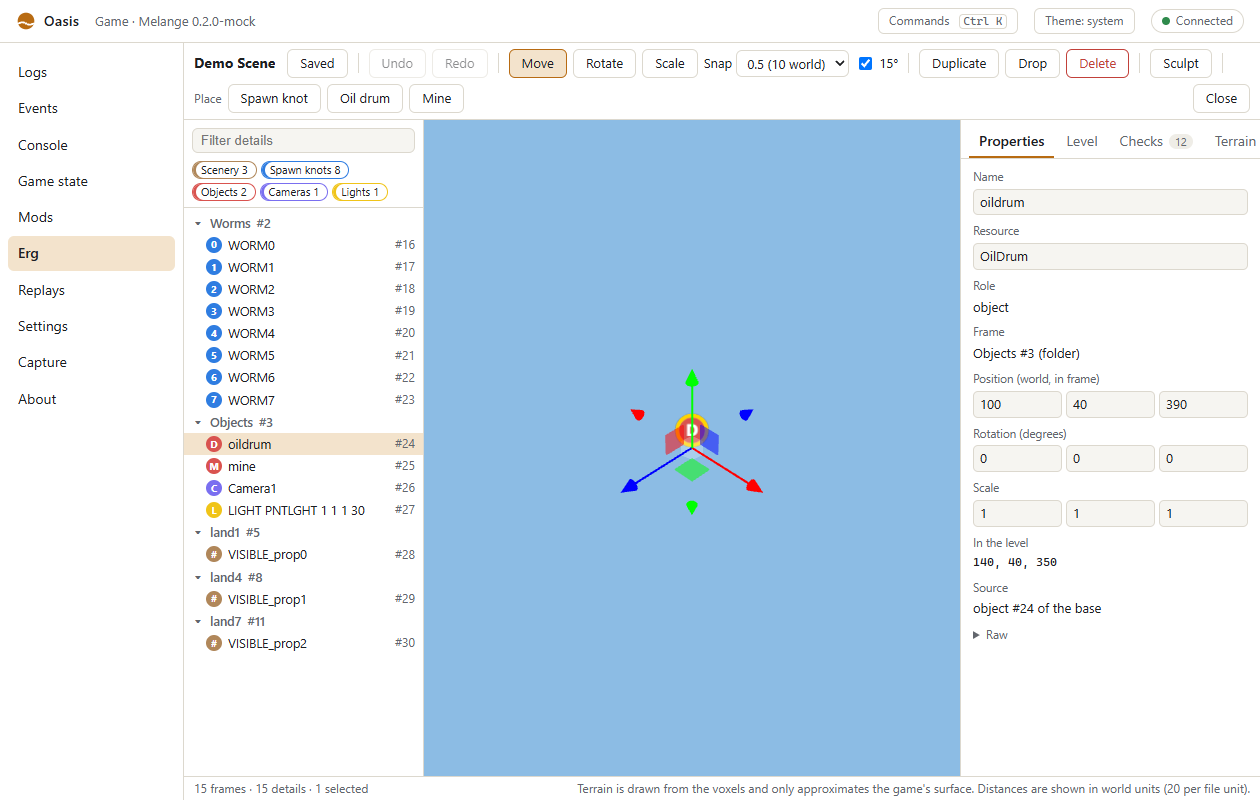
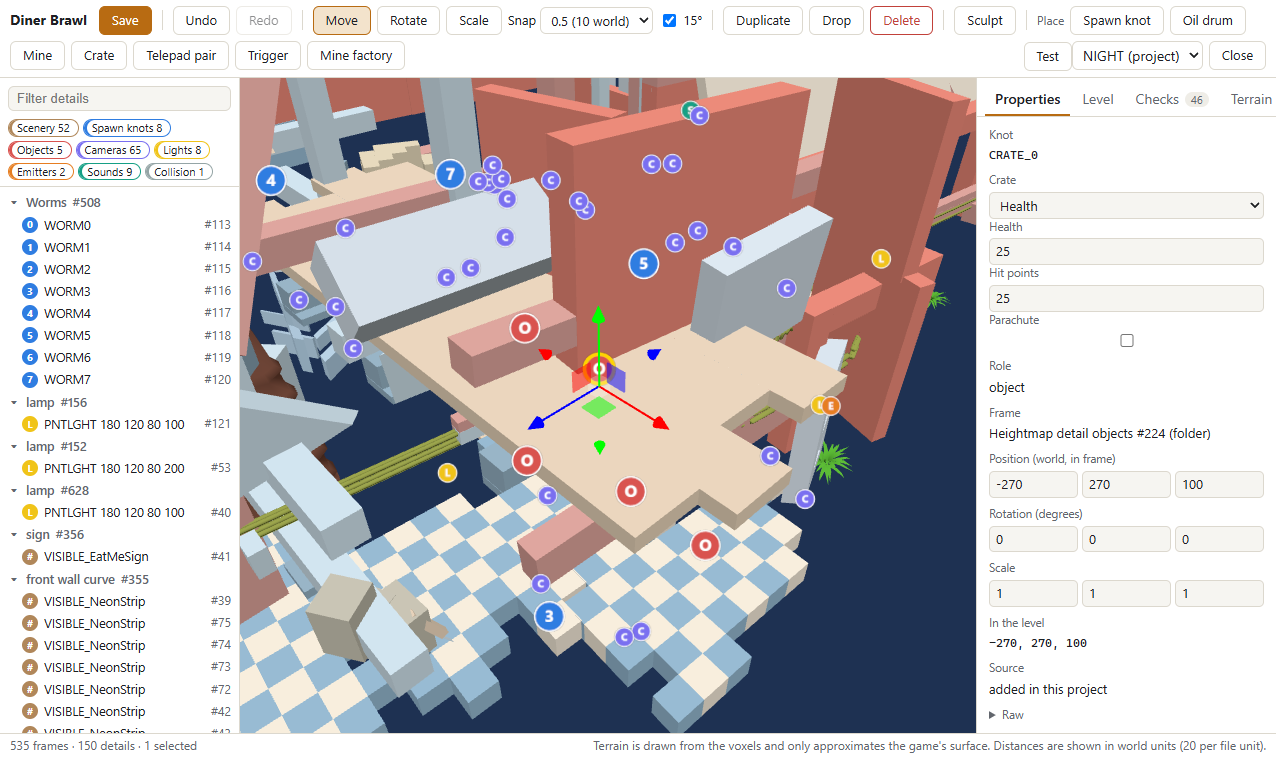
Document M6.1 in the Erg and developer guides and retake the editor shots
Claude-Session: https://claude.ai/code/session_014LhJkeYjyhWf3QW7af3a5V

diff --git a/docs/erg.md b/docs/erg.md
@@ -1,7 +1,8 @@
 # Erg: the map editor
 
 Erg is Oasis's level editor: it loads one of the game's own maps or a map you're already building, lets you move
-spawns and a handful of objects, set water and theme, and export the result as a mod. It never touches your game
+spawns, place objects, sculpt the terrain, paint the surround, add a level script, set water and theme, and export
+the result as a mod. It never touches your game
 files directly — everything happens through the local server (`melange.asi` with the game running, or `oasis.exe`
 with it closed), which is the only thing that reads `Data\` and writes `Mods\`.
 
@@ -28,17 +29,14 @@ a time. Map packs that ship only their patches (see Export) are listed at the to
 - **Outliner and properties:** a tree of everything in the map on one side, and the selected thing's fields (name,
   position, rotation, scale) on the other.
 
-![The Properties tab for a selected oil drum: name, resource, role, position, rotation and scale](images/erg/properties.png)
-
 - **Units:** the editor works in world units, which are 20× the numbers stored in the level file. A worm 1 map unit
   from a wall in the file is 20 world units away on screen — the same units the game's own camera and physics use.
-- **Placing:** pick *Spawn knot*, *Oil drum* or *Mine* in the toolbar, then click the terrain. *Drop* (G) puts the
+- **Placing:** pick *Spawn knot*, *Oil drum*, *Mine*, *Crate*, *Telepad pair*, *Trigger* or *Mine factory* in the
+  toolbar, then click the terrain. *Drop* (G) puts the
   selection on the ground below it; *Duplicate* (Ctrl+D) copies spawns and objects (not scenery).
 - **Undo and redo:** Ctrl+Z and Ctrl+Shift+Z, up to 500 steps.
 - The 3D view is an approximation of the game's own geometry, close enough to place things accurately but not a
   pixel-identical render of the game.
-
-![The Erg editor open on a synthetic map: the terrain, the outliner grouped by frame, and the toolbar's tool and Place buttons](images/erg/terrain.png)
 
 ## Spawns
 
@@ -49,14 +47,24 @@ A map's spawn mode is either:
 - **Knots:** place up to 8 numbered markers (`WORM0`..`WORM7`); worm *i* always starts on marker *i*. Every match
   needs all 8, even in smaller games — the map simply won't use the markers past the worm count.
 
-![The outliner filtered to the "spawn" role, with one WORM knot selected and its move gizmo shown](images/erg/spawns.png)
+![Diner Might with knot spawns: the outliner filtered to the eight WORM knots, WORM2 selected](images/erg/spawns.png)
 
 ## Objects
 
-Erg can place **mines** and **oil drums**, which work in any match on any map that uses them, and **crates**,
-**telepad pairs**, **triggers** and one **mine factory**, whose settings are on the Properties tab.
+- **Oil drums** and **mines** are always placed, whatever the match's scheme.
+- **Crates** hold a weapon, health or a utility; the Properties tab sets the contents, count or amount, hit points
+  and parachute.
+- **Telepad pairs** place two pads in one group: a worm on one pad comes out of the other.
+- **Triggers** have an index, a radius and the teams that collect or destroy them; a
+  [level script](#level-scripts) reacts to them.
+- One **mine factory** per map. It replaces the scheme's own factory, so a match never has two.
 
-![The toolbar's Place buttons with Oil drum armed, prompting a click on the terrain to place one](images/erg/objects.png)
+Crates, telepads, triggers and the mine factory sit on knots the game reads when the match starts. Using any of them
+saves the project as format v2 (see [Formats](#formats)).
+
+![A crate, a telepad pair, a trigger and a mine factory placed on Diner Might, with the outliner showing only objects](images/erg/objects.png)
+
+![The Properties tab for a placed crate: its kind, health, hit points and parachute](images/erg/properties.png)
 
 ## Water
 
@@ -66,16 +74,18 @@ Might, 150 floods nearly everything.
 ## Theme and time of day
 
 Changing the theme swaps the terrain's material and texture set (for example, Camelot's stone-and-banner look) and
-loads that theme's own height-map textures; it doesn't rewrite the terrain itself. Quick Game always plays your map
-in daytime regardless of the time-of-day setting you pick — that only affects how the map looks in other places the
-game shows it.
+loads that theme's own height-map textures; it doesn't rewrite the terrain itself. Quick Game and network games load
+every map in daytime, whatever the project's time of day says. To see the map at evening or night, pick that time
+for **Test** (see [Testing your map](#testing-your-map)).
 
 ## Terrain
 
 Press **Sculpt**, then drag over the terrain to carve, fill or paint with a box or sphere brush (the *Terrain* tab sets
 the mode, shape, size and material; `[` and `]` resize the brush, and Alt-drag still orbits). Fill with *Match
-column* takes the material of the terrain above. Erg doesn't add new terrain shapes or resize what's there — it only
-edits what the base map already has, and a brush reaches every piece of terrain it overlaps.
+column* takes the material of the terrain above. Fill and paint stay inside the piece of terrain the stroke started
+on. Erg doesn't add new terrain shapes or resize what's there; it only edits what the base map already has.
+
+![The Terrain tab with Sculpt armed: carve, fill or paint, a sphere or box brush, and its size](images/erg/terrain.png)
 
 ## Surround
 
@@ -85,17 +95,23 @@ The *Surround* setting keeps the base map's far-off scenery ring (*copy*), remov
 *Painted* lets you reshape it: the **Terrain** tab shows the surround as a 100×100 top-down grid, starting from the
 base map's heights. Drag on it with *Raise*, *Lower*, *Flatten* (shift-click a cell to pick its height) or *Smooth*.
 Heights run from 0 to 1 and are relative; test the map to see them in the game. A changed surround also rebuilds
-the level's shadow cache.
+the level's shadow cache, and a painted one saves the project as format v2.
+
+![Painting the surround: the top-down height grid, the Raise brush, and its radius and strength](images/erg/surround.png)
 
 ## Testing your map
 
 Press **Test** to play the map as it stands, without exporting or restarting anything:
 
-1. Erg builds your changes into a private, offline-only copy of the map (never your `Mods` folder).
-2. It registers that copy for one session and arms a one-time override so the very next match loads it.
-3. If your game build supports starting a match from the editor directly, Test starts Quick Game itself. Otherwise
+1. Pick a time of day next to the Test button: *DAY*, *EVENING* or *NIGHT*. It starts at the project's own setting
+   and applies to this Test only.
+2. Erg builds your changes into a private, offline-only copy of the map (never your `Mods` folder).
+3. It registers that copy for one session and arms a one-time override so the very next match loads it.
+4. If your game build supports starting a match from the editor directly, Test starts Quick Game itself. Otherwise
    the status line asks you to press Quick Game yourself — the override is already armed, so that press loads your
    map.
+
+![The Test button and its time-of-day selector, starting at the project's NIGHT](images/erg/test.png)
 
 A Test map never appears to anyone else and never starts in an online match; it's for checking your own work before
 you export. Testing again after another edit simply overwrites the same private copy.
@@ -107,6 +123,9 @@ the same one a content mod's `entry.sim` gets (see *Sim scripts* in [developer-g
 after every mod's sim script and only when this map is the one being played. **Save script** (Ctrl+S) checks the text
 first and marks the line of any problem; Test saves it and runs the saved text, so an edit followed by another Test
 needs no restart. Export ships it as `sim/<slug>.lua` and names it in the level's `levels[].sim` in `spice.json`.
+`oasis.exe` checks only the script's size and encoding; the syntax is checked while the game is running.
+
+![The Script tab with a short level script that floods the map when the goal trigger is collected](images/erg/script.png)
 
 ```lua
 wum.level.trigger("GOAL", { radius = 80 })
@@ -158,9 +177,8 @@ Exporting turns a project into a mod under `Mods\`, in one of two forms:
   it.
 
 Either way you give the export a mod id, a display name and a version; exporting into a mod id you've already used
-adds the new map alongside any others already in it (or updates it, if you export the same map again). A newly
-exported mod needs a restart to take effect, the same as any other content mod — the dialog tells you when that's
-needed.
+adds the new map alongside any others already in it (or updates it, if you export the same map again). Whether it
+needs a restart is covered under [Live packs](#live-packs); the dialog tells you.
 
 If you choose Source, the recipient enables the mod and either presses *Build* in Erg or runs its `build.ps1`, which
 needs nothing but their own game install; either produces byte-identical files to what Install would have written
@@ -169,12 +187,32 @@ on your machine.
 ## Playing an exported map
 
 An exported map appears under *Prebuilt* in Versus, exactly like one of the game's own maps, once the mod that ships
-it is enabled and the game has restarted.
+it is enabled.
+
+### Live packs
+
+A pack of maps can be enabled or disabled on the Mods page without a restart when:
+
+- the game is at the main menu, offline, not in a lobby, and no Test is running;
+- the pack holds only maps. A pack with level scripts or `entry.sim`, weapons, messages, client code or file overrides
+  needs a restart.
+
+A map enabled this way plays offline only until the next restart; online, a start on it is held with a banner. Set
+`[Levels] LivePacks=0` to turn live packs off.
 
 **Online rules:** a map you made plays online only when everyone in the lobby has the exact same version of the mod
 that ships it — Melange checks this automatically. If anyone doesn't match, the host's selection of that map is held
 with a banner naming who's missing it, and maps you've only Tested never start online at all. A vanilla player simply
 can't pick your map to begin with.
+
+## Formats
+
+A project or Source export is saved as `erg-patch/1` unless it uses level objects, a level script or a painted
+surround; then it is saved as `erg-patch/2` (and its scene as `erg-scene/2`). This Melange reads both: a v1 project
+opens and saves as before, and becomes v2 only once you use one of those features. There is nothing to migrate by
+hand. An older Melange that knows only v1 refuses a v2 project or pack by its format, so players need this version or
+later to build or play a v2 map. The schemas are [erg-patch-2.schema.json](erg-patch-2.schema.json) and
+[erg-scene-2.schema.json](erg-scene-2.schema.json).
 
 ## Limits
 
@@ -182,10 +220,13 @@ can't pick your map to begin with.
 - A map title is 1-40 plain-ASCII characters.
 - A patch (your saved edits) is capped at 20 000 operations and 4 MB — enough for any hand-made edit; if you hit
   this, split the changes into more than one exported map.
-- Not yet supported: per-team or story spawn points, survivor/story/challenge
-  map types, new terrain shapes (only carving, filling and painting the terrain the base map already has), editing
-  the map's generated chunk (Erg rewrites it every export; use a [level script](#level-scripts)), and enabling a
-  freshly exported mod that has level scripts without a restart.
+- Not yet supported:
+  - Survivor copies of a map, per-team or story spawn points, and story or challenge map types;
+  - new solid terrain pieces: Erg only carves, fills and paints the terrain the base map already has;
+  - blend brushes that mix two materials;
+  - editing the map's generated chunk (Erg rewrites it every export; use a [level script](#level-scripts));
+  - checking a level script's syntax outside the game: `oasis.exe` checks size and encoding only;
+  - enabling a pack with level scripts without a restart (see [Live packs](#live-packs)).
 - A replay recorded on a Test map only plays back correctly while your Test workspace still has the same files —
   moving on to a different edit, or exporting for real, can make an older Test recording unplayable.
 
@@ -194,7 +235,8 @@ can't pick your map to begin with.
 - **A map you enabled doesn't show up:** it needs a restart after being enabled, like any content mod; check the
   Mods page for "restart required".
 - **"Not built"** on a Source-form mod: press *Build* in Erg, or run the mod's `build.ps1`, then restart.
-- **Test is greyed out:** the game needs to be running, sitting at the main menu, and not in a lobby.
+- **Test is greyed out or missing:** the game needs to be running, sitting at the main menu, and not in a lobby;
+  `oasis.exe` has no Test.
 - **A map is missing online, or a teammate's start is held:** everyone needs the exact same version of the mod; check
   who's missing it in the lobby panel.
 - **Something looks wrong in the 3D view but fine in-game (or the reverse):** the editor's view is an approximation;

diff --git a/docs/developer-guide.md b/docs/developer-guide.md
@@ -242,7 +242,8 @@ a folder without one still loads, unchanged, as a client-only mod named after it
   on screen, even with the overlay hidden, while any granted unsafe mod is enabled.
 - **Client-only mods toggle live.** A content mod's message names are registered once per launch and
   never unregistered, so enabling or disabling one takes effect at the next launch (the Mods page shows
-  "restart required" until then).
+  "restart required" until then). The exception is a pack of maps only, which can change live at the main menu
+  (see [Map editor](#map-editor-erg)).
 - Choices are saved to `Mods\thumper-state.json` (falling back to `Documents\Melange` if the game folder
   is read-only). The overlay's *Thumper/Mods* panel lists every mod with its state and reason, and
   *Thumper/Deep Desert* lists every grant.
@@ -293,13 +294,29 @@ Oasis is a web page for the running game, served by `melange.asi` on `127.0.0.1`
 
 ## Map editor (Erg)
 
-Erg is an Oasis panel for building Versus maps from the game's own levels: move spawns, place mines and oil drums,
-set water and theme, sculpt terrain, and export the result as a mod (a shareable patch, or the full built files for
-your own machine). A *Test* button plays your changes in a private, offline-only copy before you export anything.
-The RPC surface (`level.*`, the `erg` channel and the `/erg/assets/` route) is in [oasis.md](oasis.md); the user
-guide, the `spice.json` `levels` array and the exported pack layout are in [erg.md](erg.md) and [spice.md](spice.md).
-The wire formats are [erg-scene-1.schema.json](erg-scene-1.schema.json) (the full editable scene, server/browser
-only) and [erg-patch-1.schema.json](erg-patch-1.schema.json) (a saved or exported edit against a pinned base).
+Erg is an Oasis panel for building Versus maps from the game's own levels: move spawns, place mines, oil drums,
+crates, telepad pairs, triggers and a mine factory, set water and theme, sculpt terrain, paint the surround, write a
+level script, and export the result as a mod (a shareable patch, or the full built files for your own machine). A
+*Test* button plays your changes, at the time of day you pick, in a private, offline-only copy before you export
+anything. The RPC surface (`level.*`, `levels.live`, the `erg` channel and the `/erg/assets/` route) is in
+[oasis.md](oasis.md); the user guide, the `spice.json` `levels` array and the exported pack layout are in
+[erg.md](erg.md) and [spice.md](spice.md).
+
+- **Level scripts** run in the sim sandbox after every mod's `entry.sim`, only on their own map, with `wum.level`
+  (the map's knots, and triggers and crates placed at them) and the `sim.turnStarted` event. The API and the
+  determinism rules are in [erg.md](erg.md#level-scripts). `oasis.exe` checks only a script's size and encoding;
+  its syntax is checked by the game's Lua 5.0 when the game is running.
+- **Live packs:** a mod whose only content is maps can be enabled or disabled at the main menu, offline, without a
+  restart (`levels::EnablePackLive`, `levels.live`, the overlay's Mods page). A pack with scripts, weapons, messages,
+  client code or file overrides needs a restart, and a live-changed pack plays offline only until the next restart.
+- **Formats:** the wire formats are `erg-scene` (the full editable scene, server/browser only) and `erg-patch` (a
+  saved or exported edit against a pinned base), each in two versions:
+  [erg-scene-1](erg-scene-1.schema.json), [erg-scene-2](erg-scene-2.schema.json),
+  [erg-patch-1](erg-patch-1.schema.json) and [erg-patch-2](erg-patch-2.schema.json). v2 adds level objects, a level
+  script and a painted surround. A patch is written as v1 unless it uses one of them, so existing v1 projects and
+  packs need no migration and stay readable. A build that knows only v1 refuses v2 by its `format`.
+- **Known limits:** no Survivor copies of a map, no new solid terrain pieces, no blend brushes, and the level script
+  syntax check runs in the game only. See [erg.md](erg.md#limits).
 
 ## SDK headers
 
@@ -323,6 +340,7 @@ The public SDK headers are in `src/sdk/melange/`:
 | `melange/lua.h` | Extend the Lua 5.4 client VM from C++: add `wum.*` namespaces, post events to mods, read Sandbox statistics |
 | `melange/sim.h` | The simulation side: match tick, C++ tick hooks, deterministic random numbers, pre-checked message sends, mod message names |
 | `melange/oasis.h` | Oasis: push data to the web app on channels, add RPC methods and web panels |
+| `melange/levels.h` | Map packs and Erg: the registered levels, Test arming and its time of day, the online map gate, and live pack changes |
 | `melange/gamestate.h` | Read-only game state: worms, teams, match values, entities, the game's data variables and a guarded raw memory view |
 
 ## Sim scripts

diff --git a/docs/oasis.md b/docs/oasis.md
@@ -312,10 +312,11 @@ at all.
 | `level.list` | `{}` → `{bases: [{key, stem, title, source, theme}], projects: [{id, title, stem, base, modified, built}]}` | every vanilla `Level_Type 0` map plus every enabled pack's, and your own projects |
 | `level.new` | `{base, slug, title}` → a project | an empty patch against `base` |
 | `level.load` | `{project}` or `{base, surround?}` → an `erg-scene/1` or `/2` result, then one `bin` frame per blob (`surround: true` adds the base's `.hmp` as an `hmp` blob) | see `web/src/sdk/erg/scene.ts` for the shape |
-| `level.save` | `{project, patch}` → `{saved, warnings}` | validates the whole patch (`erg-patch/1`) against its pinned base |
+| `level.save` | `{project, patch}` → `{saved, warnings}` | validates the whole patch (`erg-patch/1` or `/2`) against its pinned base |
 | `level.export` | `{project, modId, name, version, mode: "install"\|"source"}` → `{dir, files, restartRequired}` | see [erg.md](erg.md#export) |
 | `level.build` | `{modId}` → files written | rebuilds a Source-form pack's map files against this install (what its `build.ps1` also does) |
-| `level.test` | `{project}` → `{key, state}` | builds into the Test workspace, arms a one-shot override, starts Quick Game itself when the game supports it |
+| `level.test` | `{project, tod?}` → `{key, state}` | builds into the Test workspace, arms a one-shot override, starts Quick Game itself when the game supports it; `tod` is `DAY`, `EVENING` or `NIGHT` for this Test only |
+| `levels.live` | `{modId, on}` → `{ok, reason}` | enables or disables a maps-only pack without a restart: game only, at the main menu, offline (see [erg.md](erg.md#live-packs)) |
 | `level.themes` | `{}` → themes, times of day, material files | from the install's own `Data\Themes` |
 | `level.palette` | `{theme}` → placeable entries `{name, resource, role, preview}` | `preview` is an `/erg/assets/` key |
 | `level.objects` | `{}` → `{crateKinds, weapons, utilities, limits, error}` | crate contents from the install's `Data\Tweak\WEAPTWK.XOM`; `error` is null when it was read |

diff --git a/docs/creating-plugins.md b/docs/creating-plugins.md
@@ -36,7 +36,9 @@ Melange runs two kinds of plugins:
 `kind` decides how the mod behaves online:
 
 - `client-only` mods only change your own screen (UI, drawing, effects) and never affect other players.
-- `content` mods change the game itself, through a sim script (`entry.sim`) or weapon clones. Everyone in an online match needs the same content mods.
+- `content` mods change the game itself, through a sim script (`entry.sim`), weapon clones or maps. Everyone in an online match needs the same content mods.
+
+A content mod that ships only maps can be enabled at the main menu, offline, without a restart. One with scripts (including level scripts), weapons, messages or file overrides needs a restart.
 
 Next steps:
 
@@ -46,6 +48,7 @@ Next steps:
 | Run code inside the match simulation | [Sim scripts](developer-guide.md#sim-scripts) |
 | Change the game's shaders or add post-processing | [Graphics layer](developer-guide.md#graphics-layer-mirage) |
 | Add a weapon | [weapons.md](weapons.md) |
+| Make a map with objects, a level script (`wum.level`) or a painted surround | [erg.md](erg.md) |
 | Add a web panel to Oasis | [oasis.md](oasis.md) |
 | Declare dependencies, settings and permissions | [spice.md](spice.md) |
 | Check a content mod stays in sync online | [wormsign.md](wormsign.md) |
